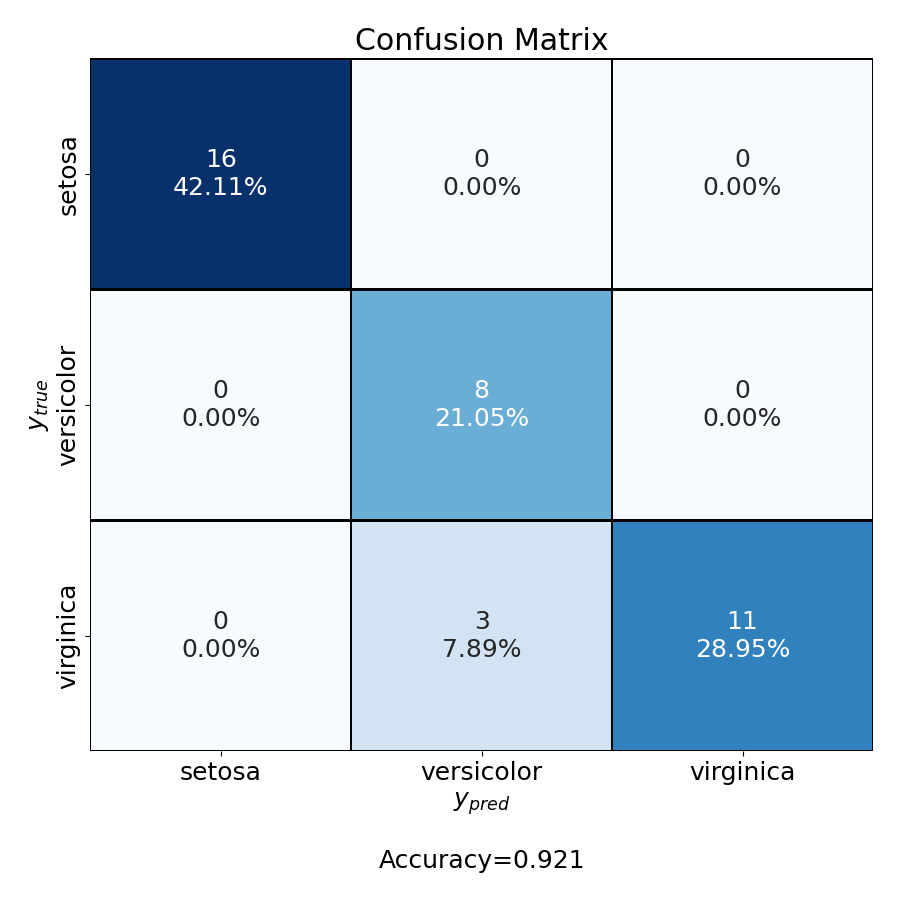
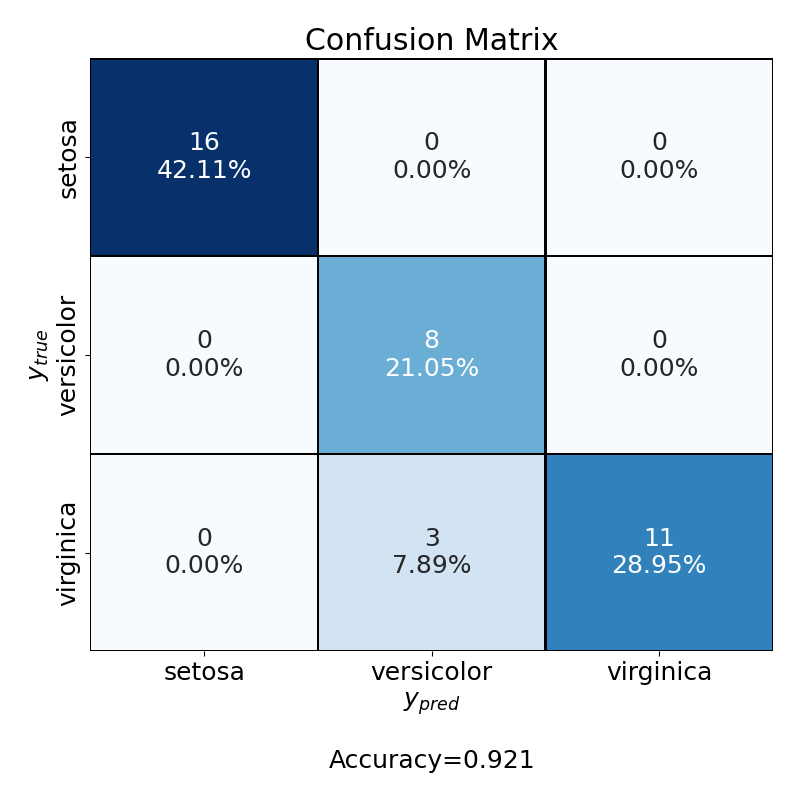
Update

diff --git a/machlearn/model_evaluation/_model_evaluation.py b/machlearn/model_evaluation/_model_evaluation.py
@@ -108,7 +108,7 @@ def Matthew_Correlation_Coefficient(TP, TN, FP, FN):
 def plot_confusion_matrix(y_true,
                           y_pred,
                           y_classes='auto',
-                          figsize=(9, 9)):
+                          figsize=(8, 8)):
     """
 
     This function plots the confusion matrix, along with key statistics, and returns accuracy.
